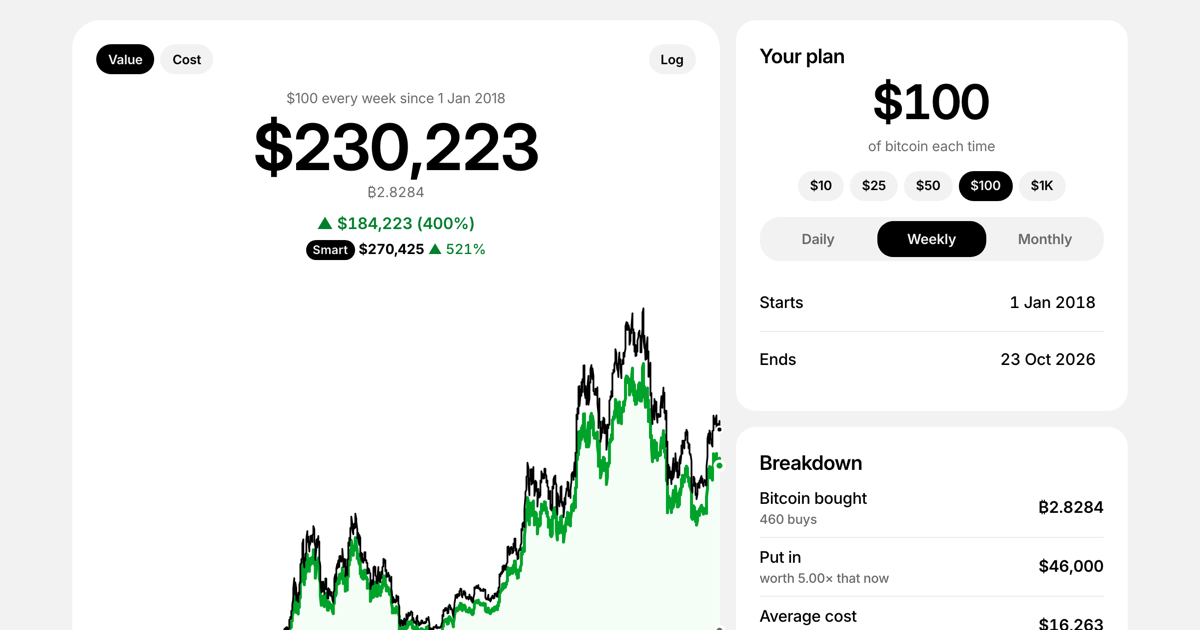
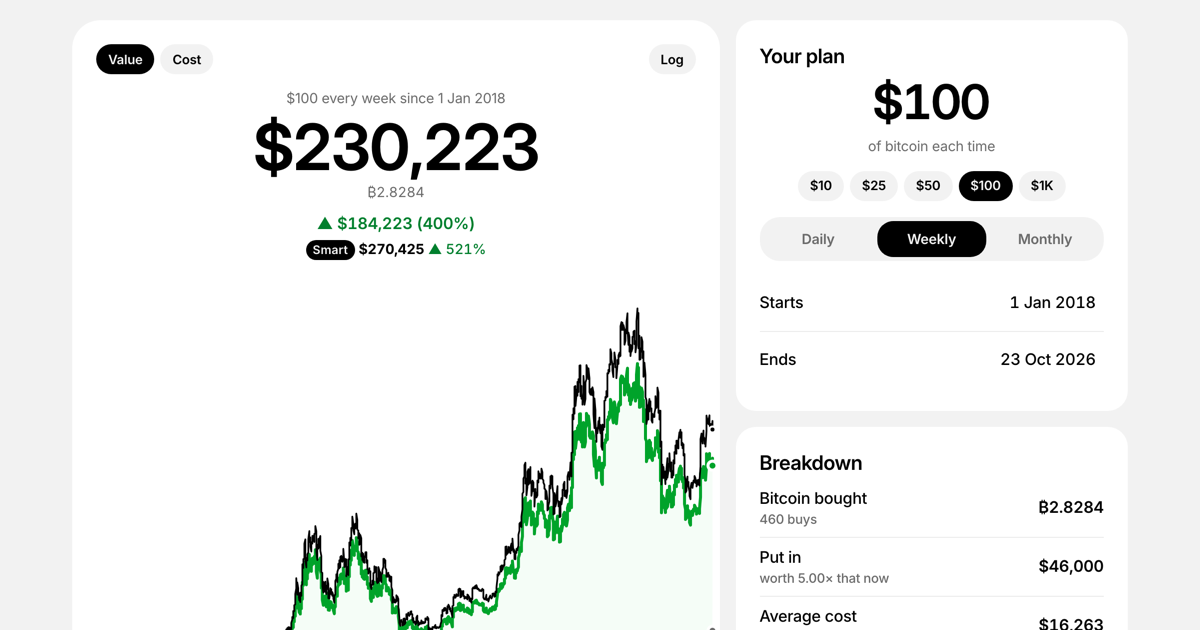
showcases: DCA walked by touch on an iPhone (Safari, in the Simulator): the chart's end dots and crosshair stay in their card (days sit a dot's reach in from each side, the pointer read the same; the share card recaptured, its dots no longer cut); a scroll that starts on the chart or the map never f

Changed region(s): [[0.3392, 0.4825, 0.6167, 1.0], [0.2158, 0.8143, 0.3392, 1.0], [0.5858, 0.9952, 0.6167, 1.0]]

diff --git a/showcases/dca/index.html b/showcases/dca/index.html
@@ -99,6 +99,12 @@
         outline-offset: 2px;
       }
 
+      /* (A ring only for keys: a field or picker tapped or clicked counts as reached by keys in some browsers, Safari's
+         picker and every date field among them. `data-pointer` is the page's: a pointer was last used, not keys.) */
+      :root[data-pointer] :focus-visible {
+        outline: none;
+      }
+
       /* (Figures of one width where numbers change, so they don't jitter; only there: a tabular hyphen is wide.) */
       .worth,
       .coins,
@@ -852,7 +858,7 @@
             }
           }
 
-          &:has(input:focus-visible) span {
+          :root:not([data-pointer]) &:has(input:focus-visible) span {
             outline: 2px solid var(--focus);
             outline-offset: 2px;
           }
@@ -1334,6 +1340,12 @@
       const DAY = 86_400_000, ORIGIN = Date.UTC(2009, 0, 1);
       const MONTHS = ["Jan", "Feb", "Mar", "Apr", "May", "Jun", "Jul", "Aug", "Sep", "Oct", "Nov", "Dec"];
       const SVG = "http://www.w3.org/2000/svg";
+      // How focus was last reached, a pointer's or keys' (for the rings, and how a date field shows itself).
+      addEventListener("pointerdown", () => (document.documentElement.dataset.pointer = ""), { capture: true });
+      // (A shortcut isn't using keys, as browsers' own rings have it.)
+      addEventListener("keydown", (event) => {
+        if (!(event.metaKey || event.ctrlKey || event.altKey)) delete document.documentElement.dataset.pointer;
+      }, { capture: true });
 
       /** @typedef {"day" | "week" | "month"} Every */
 
@@ -1643,12 +1655,8 @@
         // (A click, or Enter, opens the browser's calendar: the field itself is invisible. Reached by keys, not a pointer, it
         // shows itself to be edited until focus leaves.)
         input.addEventListener("click", () => input.showPicker?.());
-        input.addEventListener("pointerdown", () => (input.dataset.pointer = "1"));
-        input.addEventListener("focus", () => /** @type {HTMLElement} */ (input.parentElement).classList.toggle("editing", !input.dataset.pointer));
-        input.addEventListener("blur", () => {
-          delete input.dataset.pointer;
-          /** @type {HTMLElement} */ (input.parentElement).classList.remove("editing");
-        });
+        input.addEventListener("focus", () => /** @type {HTMLElement} */ (input.parentElement).classList.toggle("editing", !("pointer" in document.documentElement.dataset)));
+        input.addEventListener("blur", () => /** @type {HTMLElement} */ (input.parentElement).classList.remove("editing"));
         input.addEventListener("keydown", (event) => {
           if (event.key !== "Enter") return;
           event.preventDefault();
@@ -1756,6 +1764,10 @@
         return node;
       };
 
+      /** How far in from each side the first and last days sit: a dot's reach (a crosshair's 5px and its 1.5px ring), so
+       * a dot on either end stays in its card. */
+      const INSET = 7;
+
       /** No axes: the numbers are the value above and the keys below, at the day pointed at. Worth is green, or red when
        * the plan ends below what went in; faintly between the two lines, green where the plan stood above (worth over
        * what went in, the price over your cost), red below. A new plan's lines glide from the old ones (`animate`). */
@@ -1786,7 +1798,7 @@
         else [lo, hi] = flat ? [lo / 2, hi * 1.5] : [Math.max(0, lo - (hi - lo) * 0.05), hi + (hi - lo) * 0.05];
         const span = state.log ? Math.log(hi / lo) : hi - lo;
         const y = (/** @type {number} */ v) => pad + (height - 2 * pad) * (1 - (state.log ? Math.log(v / lo) : v - lo) / span);
-        const x = (/** @type {number} */ i) => (n === 1 ? width / 2 : (i / (n - 1)) * width);
+        const x = (/** @type {number} */ i) => (n === 1 ? width / 2 : INSET + (i / (n - 1)) * (width - 2 * INSET));
         const ys = series.map((s) => (/** @type {number} */ i) => y(s.f(i)));
         svg.setAttribute("viewBox", `0 0 ${width} ${height}`);
         const under = [el("path"), el("path")], clips = el("defs"), fills = [el("path", { class: "above", "clip-path": "url(#chart-up)" }), el("path", { class: "below", "clip-path": "url(#chart-down)" })];
@@ -1804,8 +1816,8 @@
         // rest: where days outnumber columns, a column's lowest and highest day in the order they came (as drawing every
         // day looks); else each day on the column nearest it and the line between days on the rest, twice a column. A
         // one-day plan: its point, in one column.
-        const columns = n === 1 ? 1 : Math.max(2, Math.round(width));
-        const colX = (/** @type {number} */ j) => (columns === 1 ? width / 2 : (j / (columns - 1)) * width);
+        const columns = n === 1 ? 1 : Math.max(2, Math.round(width - 2 * INSET));
+        const colX = (/** @type {number} */ j) => (columns === 1 ? width / 2 : INSET + (j / (columns - 1)) * (width - 2 * INSET));
         // (After the columns, the last day's own value: where the line's end dot sits.)
         const sample = (/** @type {(i: number) => number} */ yOf) => {
           const out = new Float64Array(columns * 2 + 1);
@@ -1936,21 +1948,41 @@
         }
       }
 
+      /** Whether a move over `target` reads what's under it: a mouse's or a pen's always; a finger's once it's moved more
+       * across than down, as until then it may be scrolling the page (a scroll that starts on the chart or the map never
+       * flashes a day or a plan). */
+      function readsAcross(/** @type {HTMLElement} */ target) {
+        /** Where a finger came down, till it's moved more across than down. @type {{ x: number, y: number } | null} */
+        let down = null;
+        target.addEventListener("pointerdown", (event) => (down = event.pointerType === "touch" ? { x: event.clientX, y: event.clientY } : null));
+        for (const type of ["pointerleave", "pointercancel"]) target.addEventListener(type, () => (down = null));
+        return (/** @type {PointerEvent} */ event) => {
+          if (down && Math.abs(event.clientX - down.x) <= Math.abs(event.clientY - down.y)) return false;
+          down = null;
+          return true;
+        };
+      }
+
       // Read by pointer or touch (a horizontal drag; a vertical one scrolls the page), or by keys once focused.
       /** The day read by keys, kept while the chart has focus. @type {number | null} */
       let scrub = null;
       const dayAt = (/** @type {PointerEvent} */ event) => {
         const box = plots.getBoundingClientRect(), n = plan.to - plan.from;
-        return Math.round(Math.min(1, Math.max(0, (event.clientX - box.left) / box.width)) * n);
+        return Math.round(Math.min(1, Math.max(0, (event.clientX - box.left - INSET) / (box.width - 2 * INSET))) * n);
       };
-      for (const type of ["pointermove", "pointerdown"]) {
-        plots.addEventListener(type, (event) => {
-          settle();
-          point(dayAt(/** @type {PointerEvent} */ (event)));
-        });
-      }
-      plots.addEventListener("pointerleave", () => point(scrub));
-      plots.addEventListener("pointercancel", () => point(scrub));
+      const chartReads = readsAcross(plots);
+      plots.addEventListener("pointerdown", (event) => {
+        // (A finger reads once it's moved across: see readsAcross.)
+        if (event.pointerType === "touch") return;
+        settle();
+        point(dayAt(event));
+      });
+      plots.addEventListener("pointermove", (event) => {
+        if (!chartReads(event)) return;
+        settle();
+        point(dayAt(event));
+      });
+      for (const type of ["pointerleave", "pointercancel"]) plots.addEventListener(type, () => point(scrub));
       plots.addEventListener("keydown", (event) => {
         const n = plan.to - plan.from, step = event.shiftKey ? 30 : 1;
         const to = /** @type {Record<string, number>} */ ({ ArrowLeft: (scrub ?? n) - step, ArrowRight: (scrub ?? n) + step, Home: 0, End: n })[event.key];
@@ -2202,7 +2234,9 @@
         return d <= longest ? { s, d } : y >= edge(longest + 1) - 8 ? { s, d: longest } : null;
       }
       const pick = (/** @type {{ s: number, d: number }} */ spot) => setDates(firstOf(map.start + spot.s), firstOf(map.start + spot.s + spot.d + 1) - 1);
+      const mapReads = readsAcross(canvas);
       canvas.addEventListener("pointermove", (event) => {
+        if (!mapReads(event)) return;
         // (One selection: the pointer moves the keys' cursor too, so Enter picks what's outlined.)
         pointed = at(event);
         if (pointed) cursor = pointed;
